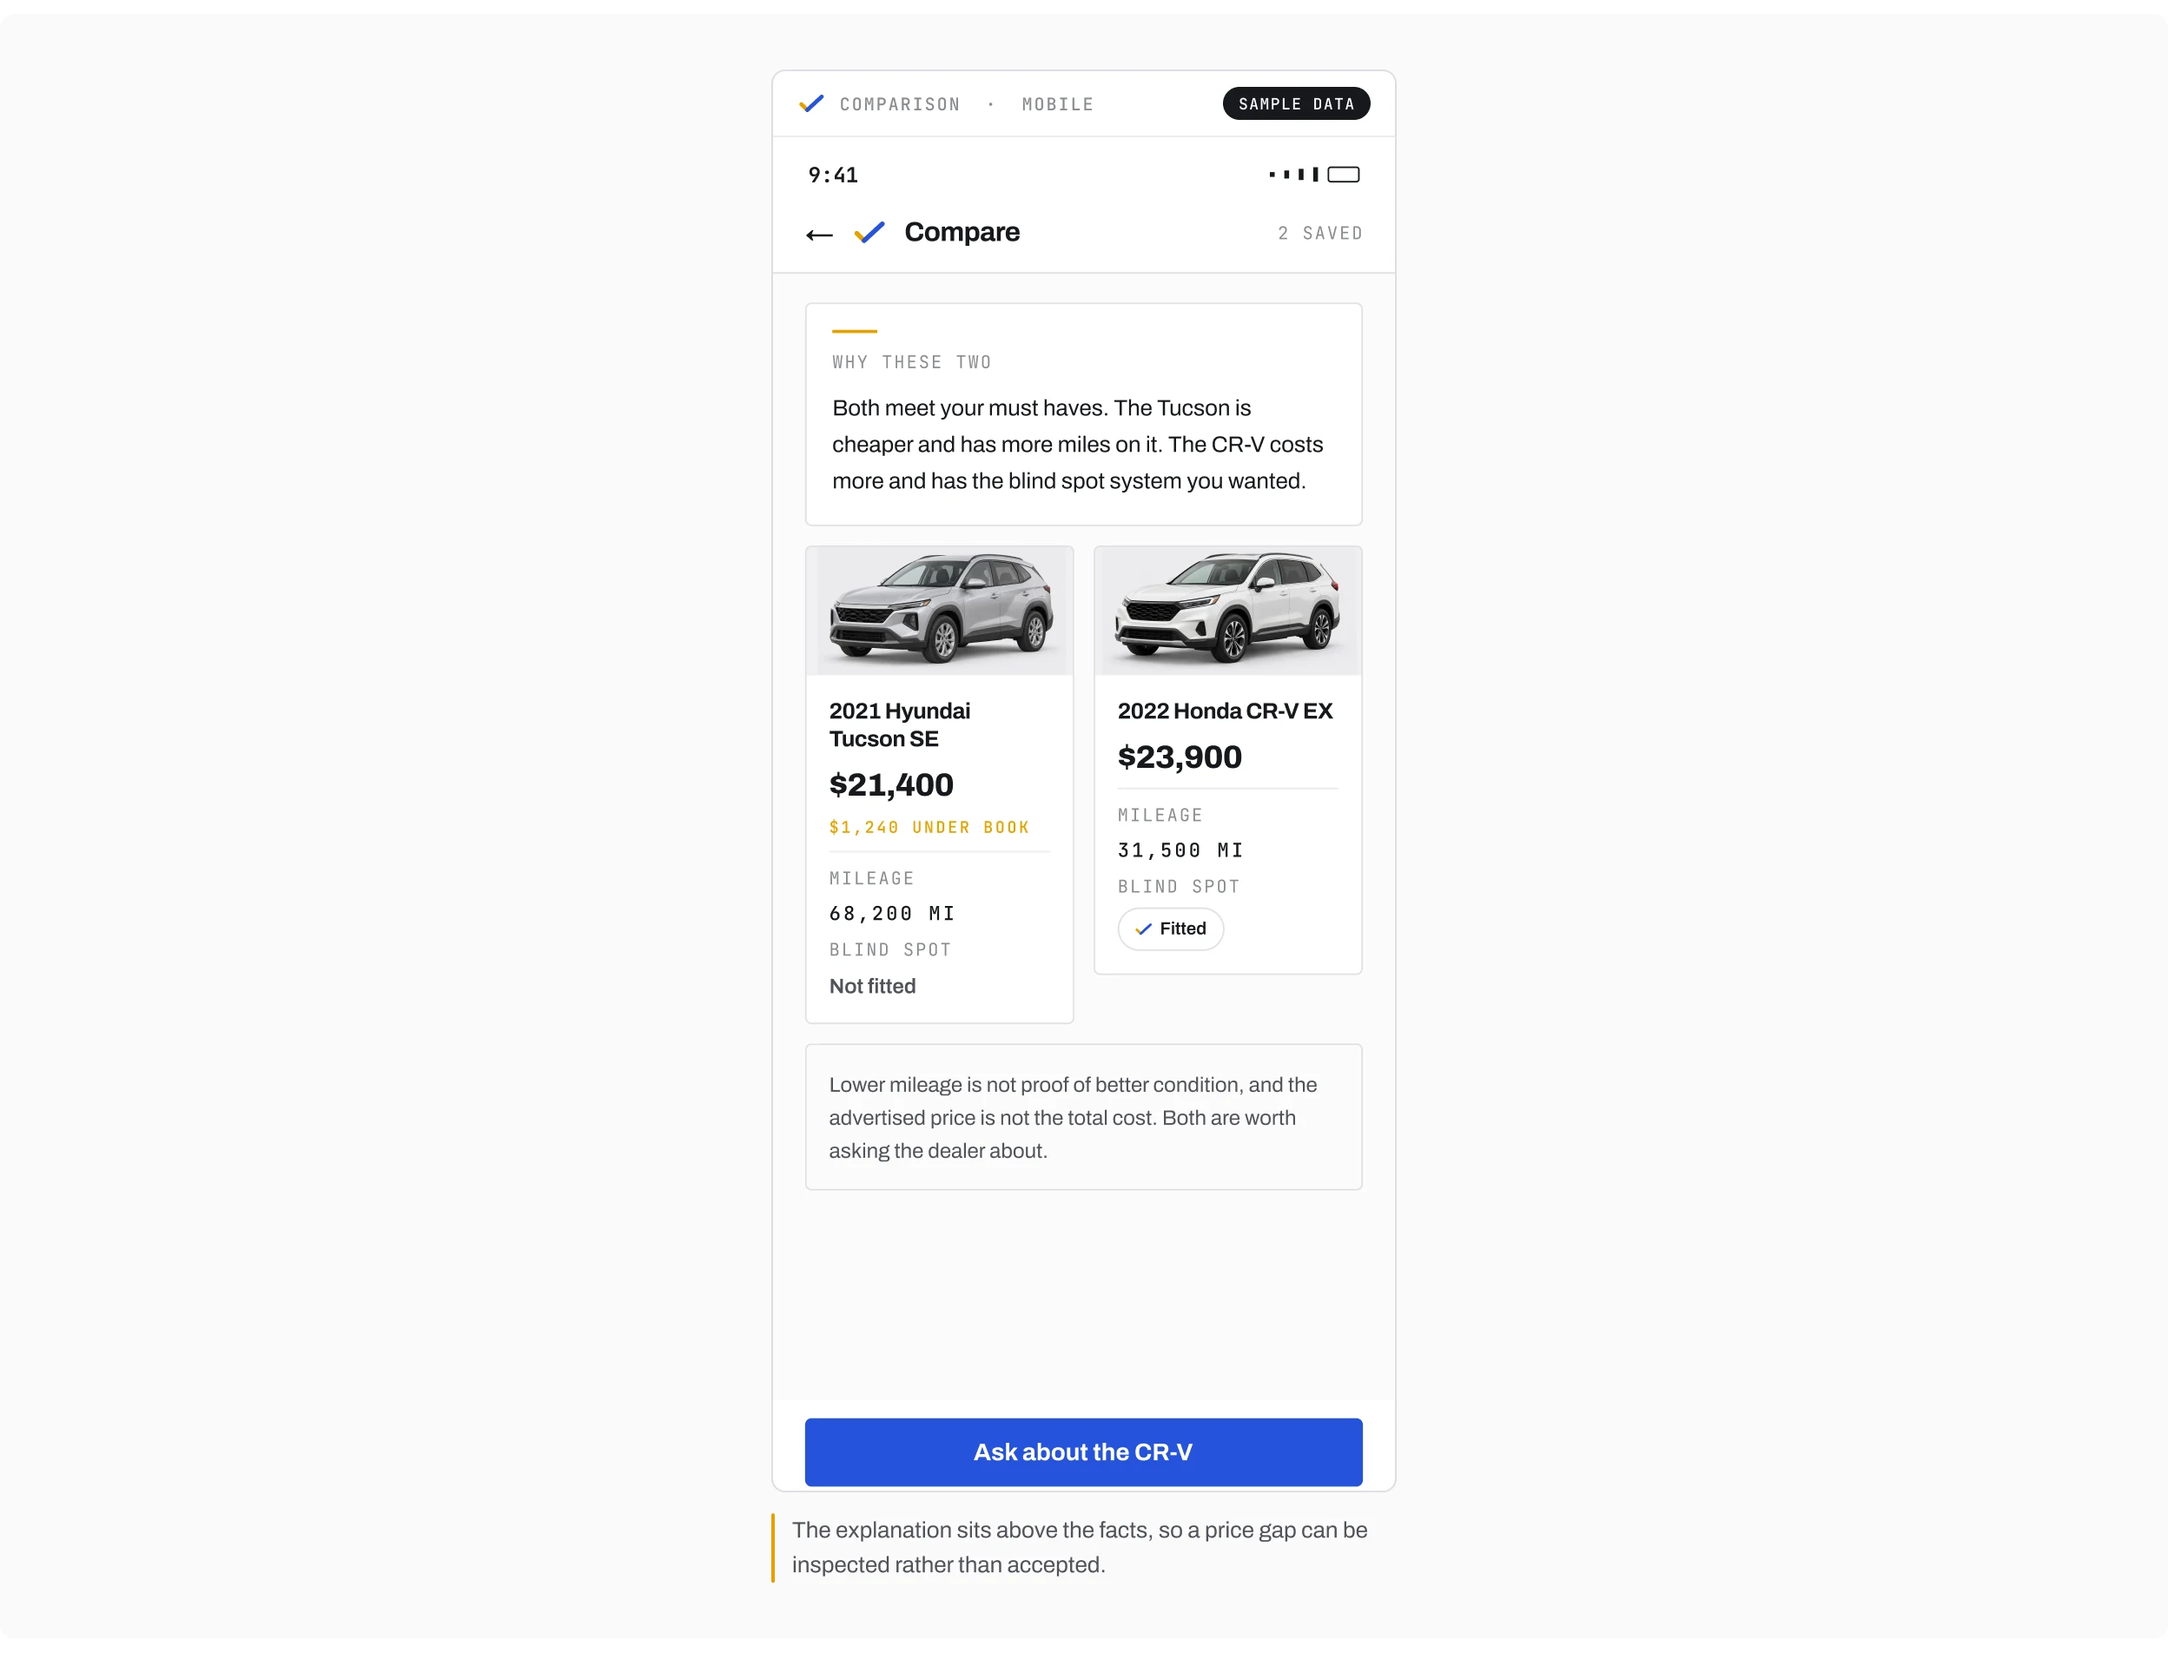
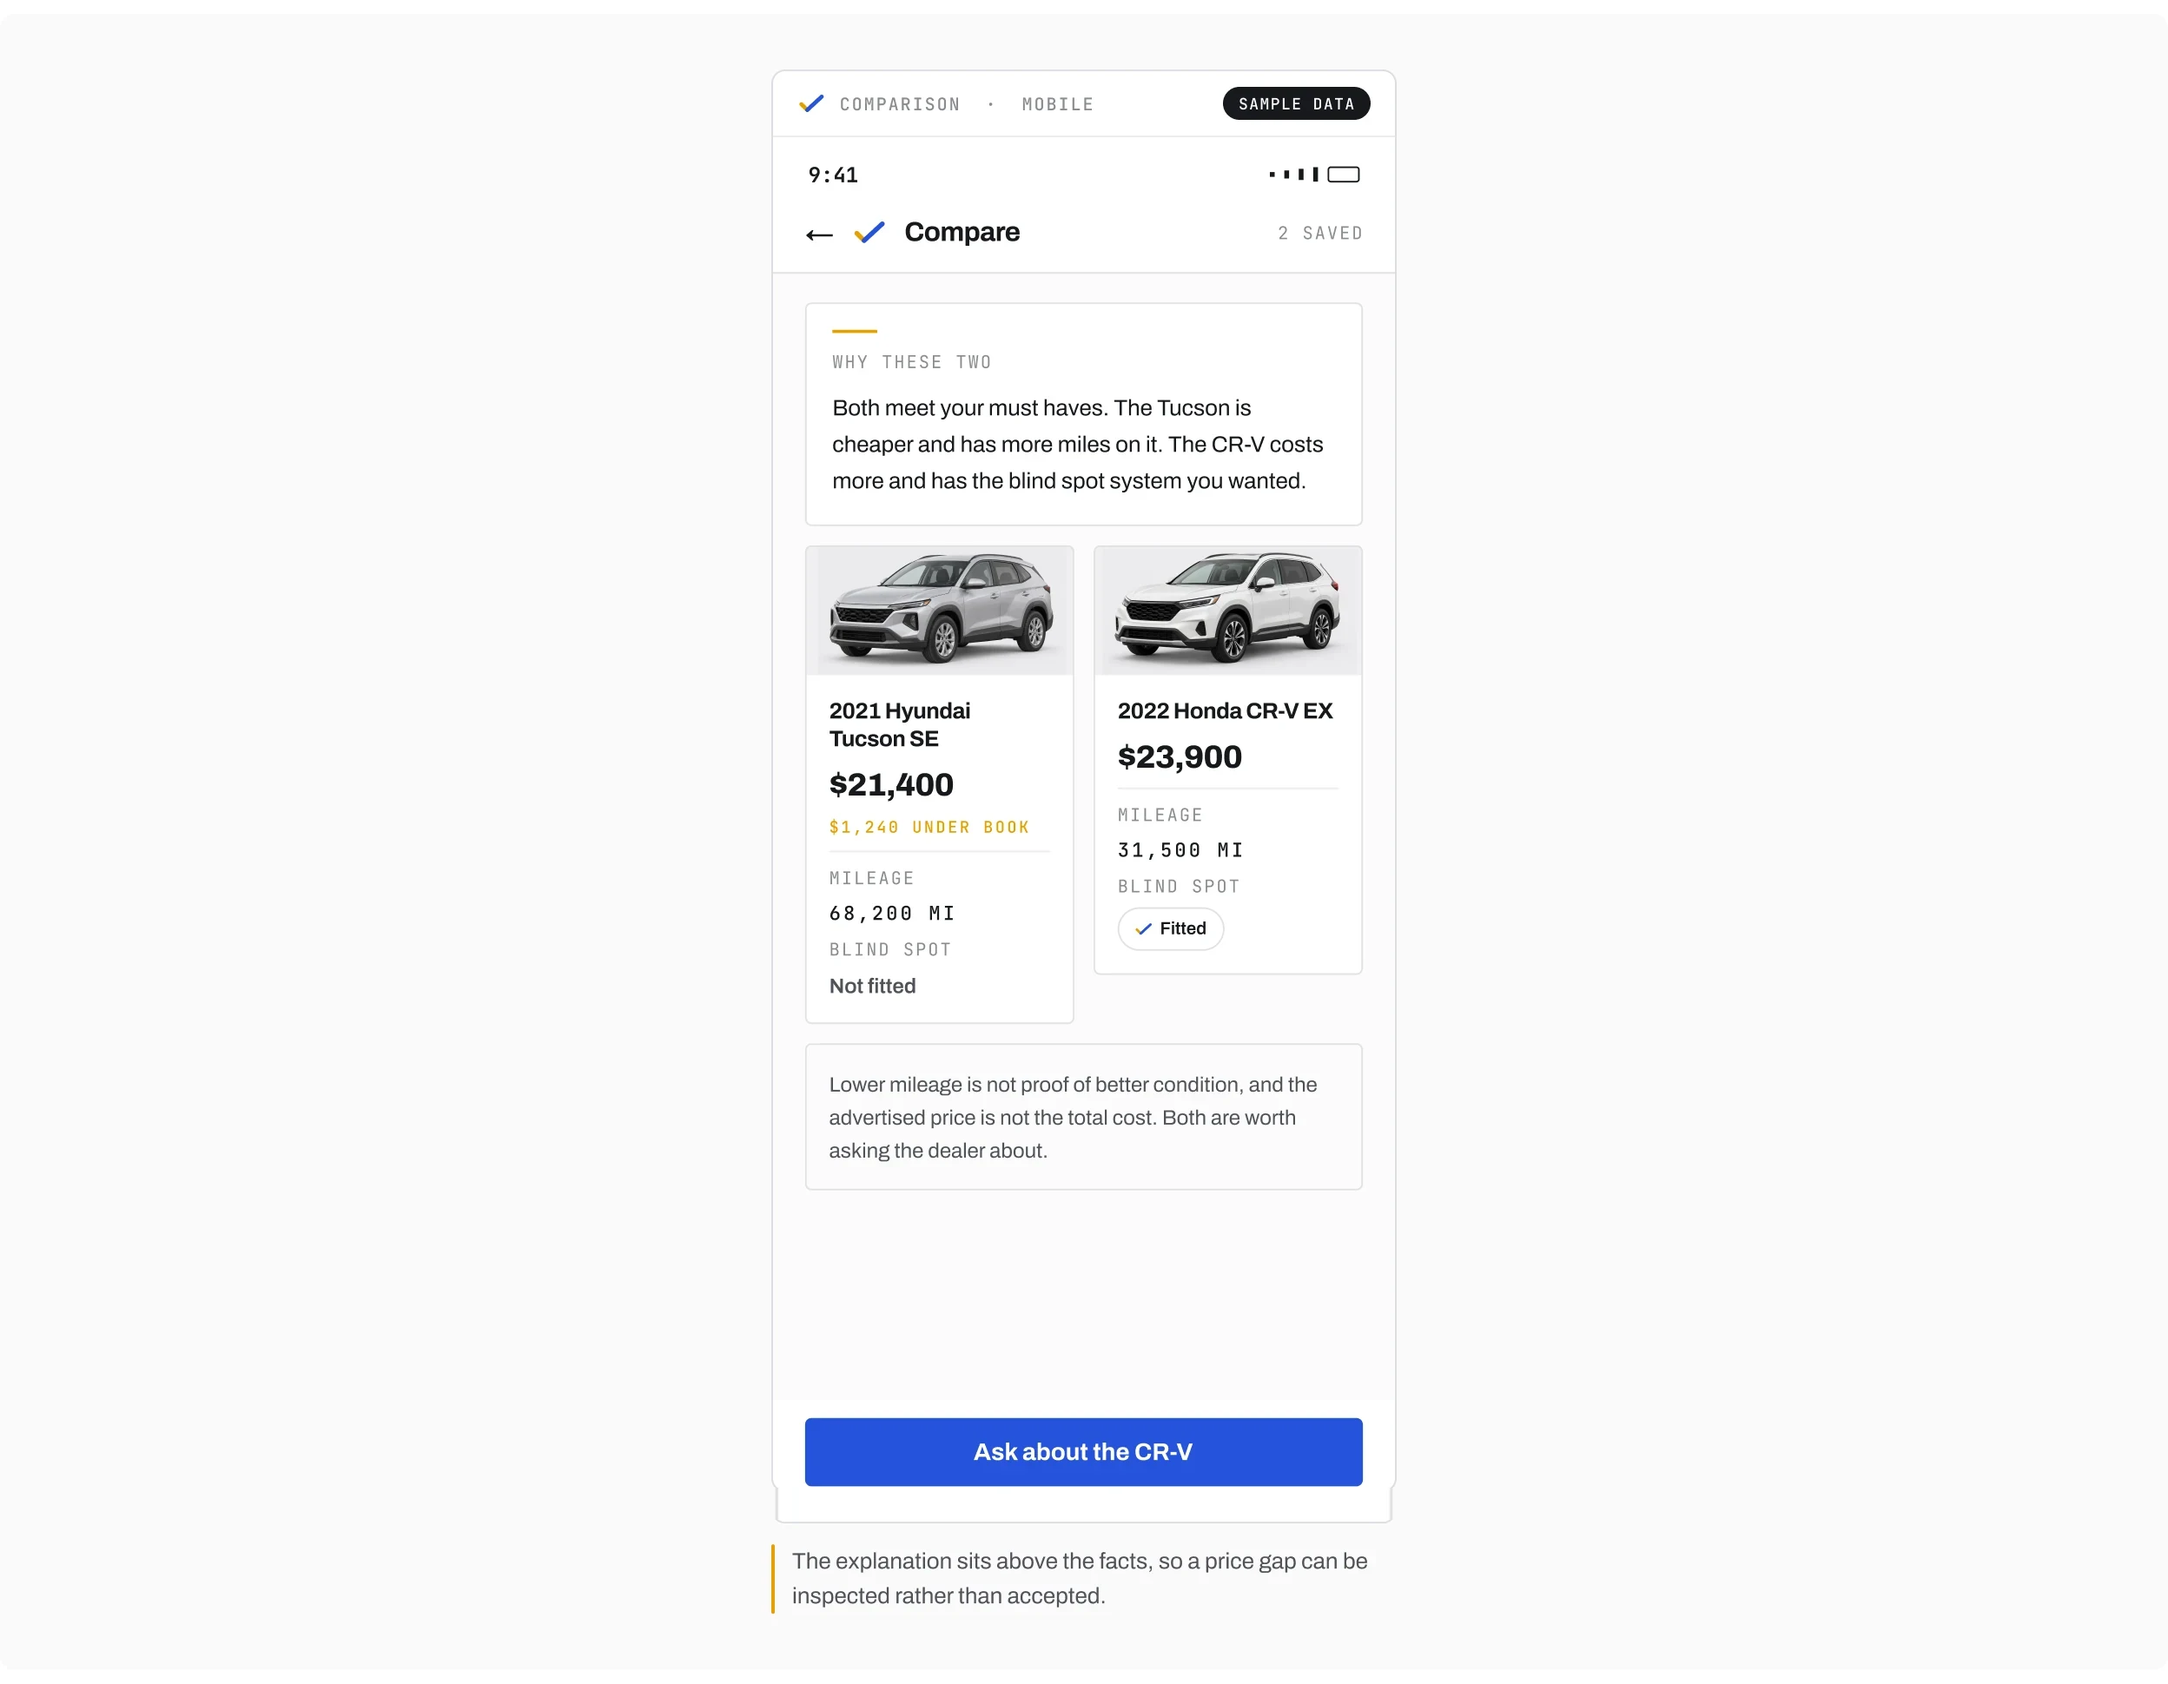
Give the ShopSmartAutos comparison CTA its bottom spacing
Claude-Session: https://claude.ai/code/session_017sHoKuHoqjUpKFkS6AG9mW

diff --git a/shopsmartautos-ai/index.html b/shopsmartautos-ai/index.html
@@ -116,7 +116,7 @@
           <p class="eyebrow eyebrow--wide">The explanation stays beside the facts</p>
           <p>The comparison panel keeps the assistant's explanation beside the vehicle facts behind it. A price or mileage difference can then be inspected rather than accepted as a recommendation without context.</p>
         </figcaption>
-        <img src="../portfolio-assets/cases-2026/ss-03-comparison.webp" alt="A comparison with the assistant explanation beside the vehicle facts" width="2496" height="1903" loading="lazy" decoding="async">
+        <img src="../portfolio-assets/cases-2026/ss-03-comparison.webp" alt="A comparison with the assistant explanation beside the vehicle facts" width="2496" height="1939" loading="lazy" decoding="async">
       </figure>
       <p class="fig-quote"><img src="../portfolio-assets/marks-2026/mark-ssa-mini.svg" alt="" width="28" height="22"><span>A price is only useful next to the reason it’s that price.</span></p>
       <div class="fig fig--note">
